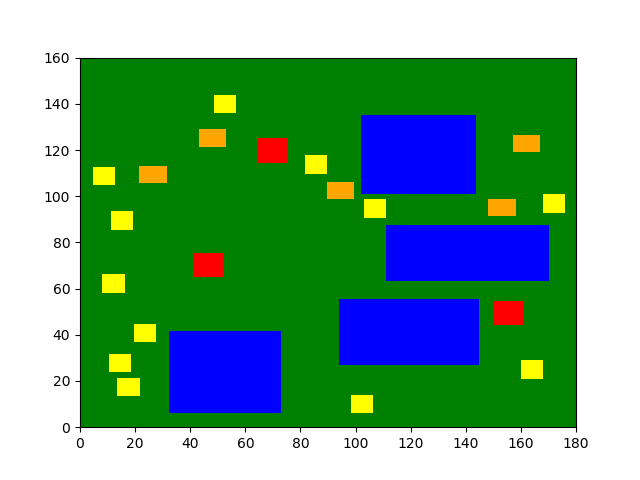
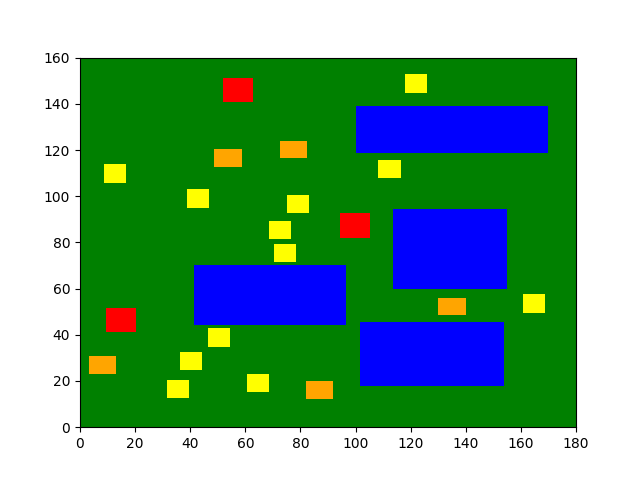
stage

diff --git a/Algorithms/hillclimber.py b/Algorithms/hillclimber.py
@@ -49,7 +49,7 @@ def hillclimber(map_charac, tries_random, tries_hill, nr_houses, hill_type,
 
 if __name__ == '__main__':
 
-	from __import__ import MAP_20, coloured_map, save_results, make_gif
+	from __import__ import MAP_20, coloured_map, save_results, make_gif, best_of_random
 
 	hillclimber_map = hillclimber(MAP_20, 1, 10, 1, 0, True)
 

diff --git a/Algorithms/depthfirst.py b/Algorithms/depthfirst.py
@@ -98,7 +98,7 @@ def depthfirstwater(start_maps, nr_waterbodies, map_charac):
 		k = 0
 
 		while len(total_maps[start_map].water) < nr_waterbodies:
-			total_maps[start_map].place_water(nr_waterbodies, k)
+			total_maps[start_map].place_water_random(nr_waterbodies, k)
 			k += 1
 
 		# iterates over houses
